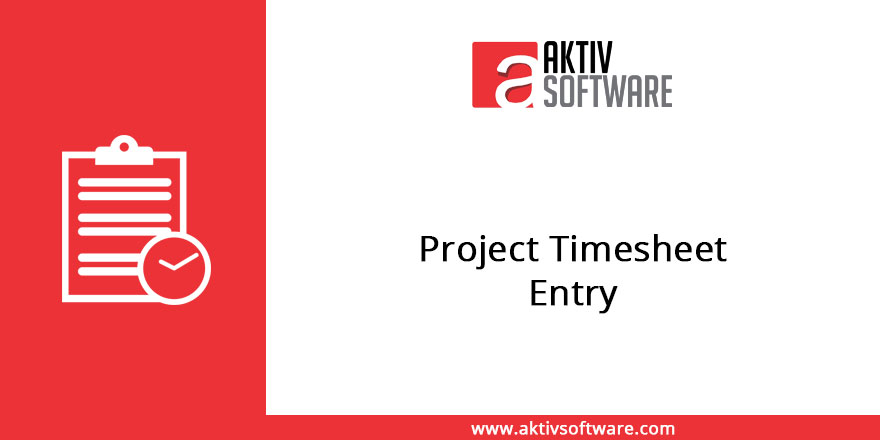
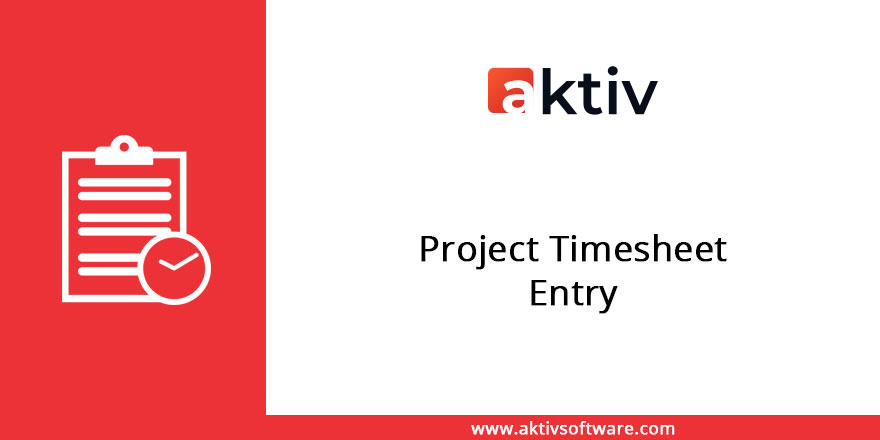
[ADD] change image in 9.0

Changed region(s): [[0.5216, 0.0886, 0.767, 0.2659]]

diff --git a/project_timesheet_entry/static/description/index.html b/project_timesheet_entry/static/description/index.html
@@ -84,7 +84,7 @@
     <div class="oe_row oe_spaced">
         <h2 class="oe_slogan">
             <a href="http://aktivsoftware.com/" target="new">
-                <img src="http://aktivsoftware.com/wp-content/uploads/2018/01/logo-1.png"/>
+                <img src="aktiv-logo.png"/>
             </a>
             <br/>
             <a href="mailto:sales@aktivsoftware.com" style="color: #000000 !important;">
